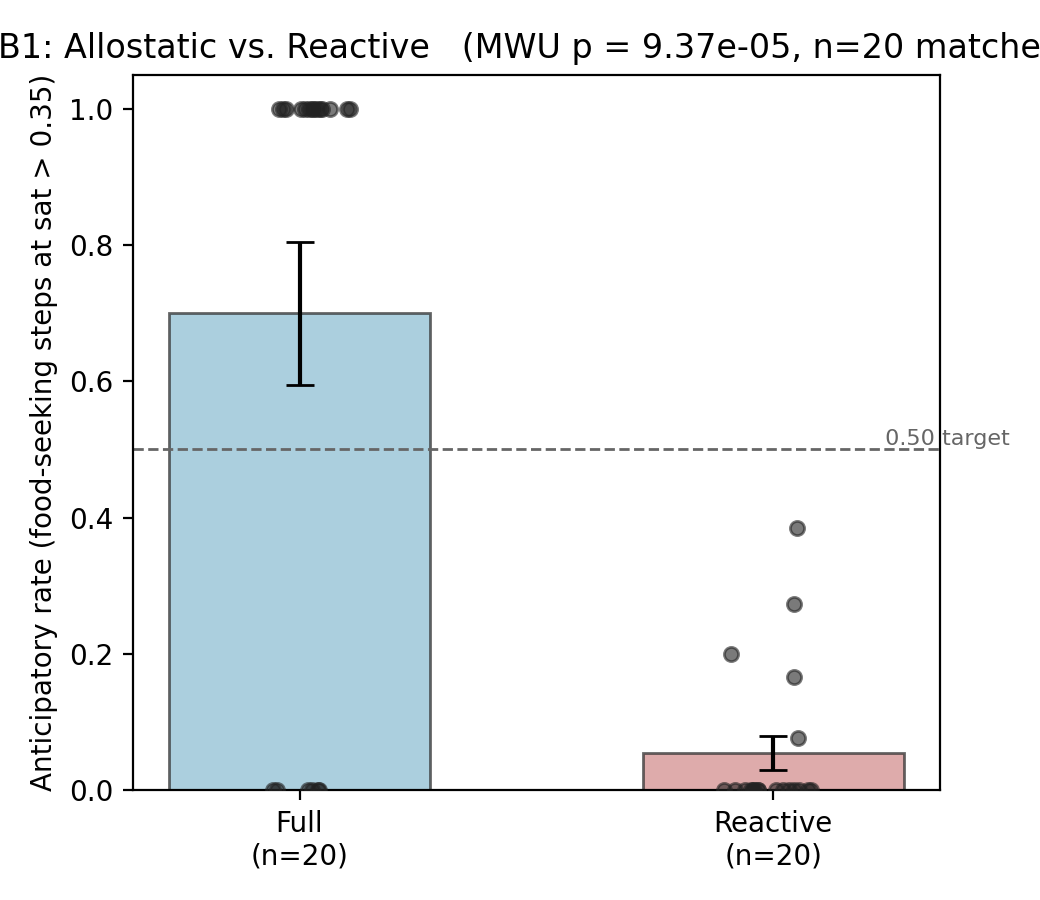
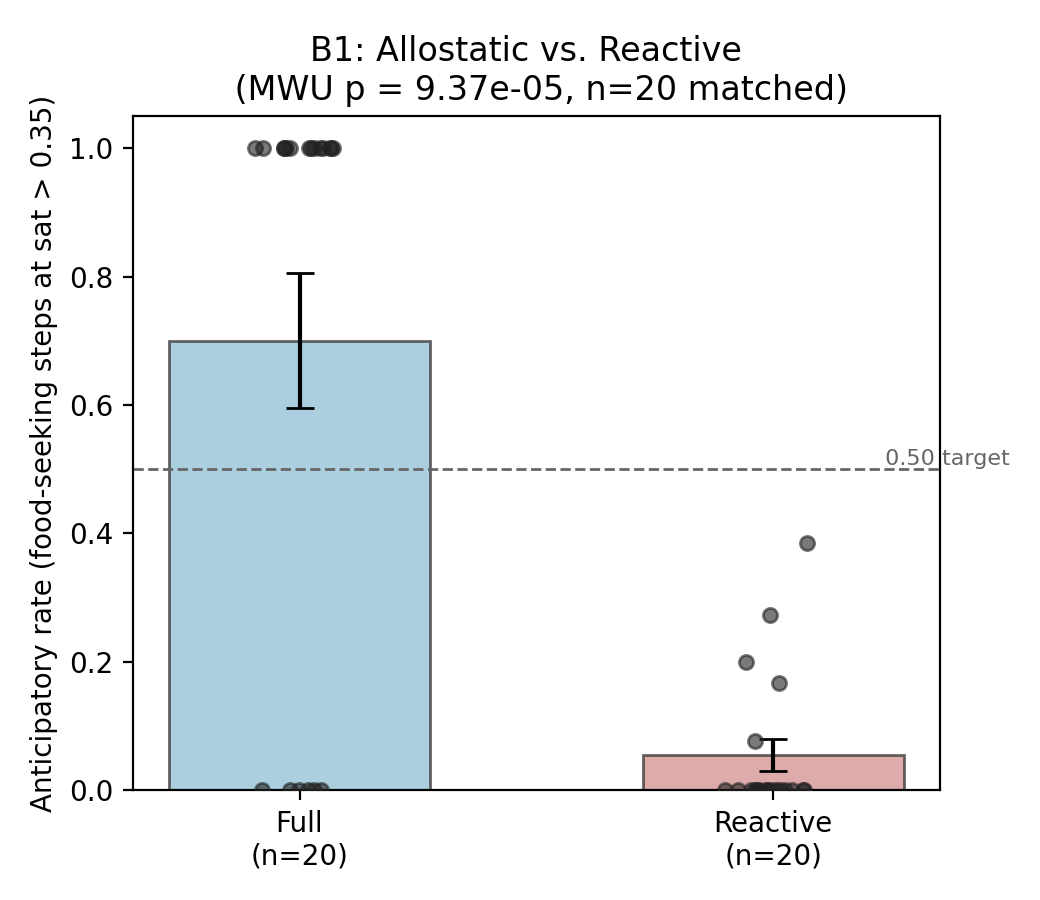
figure updates

diff --git a/results/figures_from_tests.py b/results/figures_from_tests.py
@@ -34,13 +34,17 @@ def _setup_paths(root: str):
 def d1(outdir: str):
     """D1 boxplot + histogram of self-caused vs external PE (Fig 7.x)."""
     from scipy.stats import wilcoxon
+
     from core.layers.predictive.WorldModelGenerator import WorldModelGenerator
-    from tests.functional.test_d_suite import (
-        _run_d1_episode,
-        _N_D1_WARMUP, _N_D1_TEST, _STEPS_D1,
-        _D1_INJECTION_STEP, _D1_INJECTION_VALUE,
-    )
     from tests.functional.test_b_suite import _make_cfg
+    from tests.functional.test_d_suite import (
+        _D1_INJECTION_STEP,
+        _D1_INJECTION_VALUE,
+        _N_D1_TEST,
+        _N_D1_WARMUP,
+        _STEPS_D1,
+        _run_d1_episode,
+    )
 
     # Mirror test_d1_causal_self_attribution exactly.
     sim_cfg, brain_cfg = _make_cfg(
@@ -176,9 +180,15 @@ def _grouped_figure(groups: dict, ylabel: str, title: str, outpath: str,
 def b1(outdir: str):
     """B1 anticipatory foraging rate, full vs reactive (Fig 7.x)."""
     from scipy.stats import mannwhitneyu
+
     from tests.functional.test_b_suite import (
-        _run_n_episodes, _make_cfg, _b1_anticipatory_rate, _N_B1, _STEPS_B1,
+        _N_B1,
+        _STEPS_B1,
+        _b1_anticipatory_rate,
+        _make_cfg,
+        _run_n_episodes,
     )
+
     ov = {"simulation": {"n_food": 4}, "homeostatic": {"saturation_depletion_rate": 0.001}}
     sf, bf = _make_cfg(sim_overrides=ov, ablation_mode="full")
     sr, br = _make_cfg(sim_overrides=ov, ablation_mode="reactive")
@@ -208,9 +218,10 @@ def b1(outdir: str):
     _grouped_figure(
         {"Full": rf, "Reactive": rr},
         "Anticipatory rate (food-seeking steps at sat > 0.35)",
-        f"B1: Allostatic vs. Reactive   (MWU p = {p:.2e}, n={_N_B1} matched)",
+        f"B1: Allostatic vs. Reactive  \n (MWU p = {p:.2e}, n={_N_B1} matched)",
         os.path.join(outdir, "fig_7x_b1_anticipatory.png"),
-        hline=0.50, hline_label="0.50 target",
+        hline=0.50,
+        hline_label="0.50 target",
     )
     print(json.dumps({
         "mean_full": float(rf.mean()), "mean_reactive": float(rr.mean()),
@@ -224,8 +235,9 @@ def b1(outdir: str):
 def coverage(outdir: str):
     """C1 + E2 arena coverage at step 200: full vs no_epistemic vs efe_only."""
     from scipy.stats import mannwhitneyu
-    from tests.functional.test_b_suite import _run_n_episodes, _make_cfg
-    from tests.functional.test_c_suite import _arena_coverage, _N_C1, _STEPS_C1
+
+    from tests.functional.test_b_suite import _make_cfg, _run_n_episodes
+    from tests.functional.test_c_suite import _N_C1, _STEPS_C1, _arena_coverage
 
     def cov200(ep):
         return _arena_coverage([r for r in ep if r["step"] < 200])
@@ -245,11 +257,14 @@ def coverage(outdir: str):
             for i, v in enumerate(arr):
                 fh.write(f"{mode},{i},{v:.6f}\n")
     _grouped_figure(
-        {"Full": out["full"], "No-epistemic": out["no_epistemic"], "EFE-only": out["efe_only"]},
+        {
+            "Full": out["full"],
+            "No-epistemic": out["no_epistemic"],
+            "EFE-only": out["efe_only"],
+        },
         "Arena coverage at step 200 (fraction of cells)",
         "C1 / E2: Epistemic exploration coverage",
         os.path.join(outdir, "fig_7x_c1_e2_coverage.png"),
-        hline=0.25, hline_label="0.25 C1 target",
     )
     _, p_c1 = mannwhitneyu(out["full"], out["no_epistemic"], alternative="greater")
     print(json.dumps({
@@ -278,14 +293,19 @@ def d1_control(outdir: str):
         large drop), NOT self-attribution -> the mechanism claim must be dropped.
     """
     import copy
+
     from scipy.stats import wilcoxon
+
     from core.layers.predictive.WorldModelGenerator import WorldModelGenerator
-    from tests.functional.test_d_suite import (
-        _run_d1_episode,
-        _N_D1_WARMUP, _N_D1_TEST, _STEPS_D1,
-        _D1_INJECTION_STEP, _D1_INJECTION_VALUE,
-    )
     from tests.functional.test_b_suite import _make_cfg
+    from tests.functional.test_d_suite import (
+        _D1_INJECTION_STEP,
+        _D1_INJECTION_VALUE,
+        _N_D1_TEST,
+        _N_D1_WARMUP,
+        _STEPS_D1,
+        _run_d1_episode,
+    )
 
     class NullWorldModel:
         """Predicts no change (current saturation); learns nothing."""
@@ -360,10 +380,16 @@ def d1_control(outdir: str):
 def b3(outdir: str):
     """B3 interoceptive-exteroceptive crosstalk: saturation vs food-attention weight."""
     from scipy.stats import pearsonr
+
     from tests.functional.test_b_suite import (
-        _run_episode, _make_cfg, _partial_pearsonr,
-        _SAT_CONDITIONS, _N_B3_PER_CONDITION, _STEPS_B3,
+        _N_B3_PER_CONDITION,
+        _SAT_CONDITIONS,
+        _STEPS_B3,
+        _make_cfg,
+        _partial_pearsonr,
+        _run_episode,
     )
+
     base_ov = {"simulation": {"n_food": 4, "seed": 42},
                "homeostatic": {"saturation_depletion_rate": 0.0}}
     sim_base, brain = _make_cfg(sim_overrides=base_ov, ablation_mode="full")
@@ -409,11 +435,18 @@ def b3(outdir: str):
 def c3(outdir: str):
     """C3a goal persistence (full vs no-memory) and C3b satiation suppression."""
     from scipy.stats import mannwhitneyu
-    from tests.functional.test_b_suite import _run_episode, _make_cfg
+
+    from tests.functional.test_b_suite import _make_cfg, _run_episode
     from tests.functional.test_c_suite import (
-        _persistence_steps, _FOOD_AHEAD_FAR, _FOOD_AHEAD_NEAR,
-        _FOOD_REMOVAL_STEP_C3A, _SAT_WINDOW,
-        _N_C3A, _STEPS_C3A, _N_C3B, _STEPS_C3B,
+        _FOOD_AHEAD_FAR,
+        _FOOD_AHEAD_NEAR,
+        _FOOD_REMOVAL_STEP_C3A,
+        _N_C3A,
+        _N_C3B,
+        _SAT_WINDOW,
+        _STEPS_C3A,
+        _STEPS_C3B,
+        _persistence_steps,
     )
 
     # ---- C3a: persistence after food removal, full vs no-memory ----
@@ -491,9 +524,13 @@ def c3a_probe(outdir: str):
     enough to flip the argmax to move_forward. Runs the REAL _run_episode (full
     condition) so nothing is reimplemented.
     """
-    from tests.functional.test_b_suite import _run_episode, _make_cfg
-    from tests.functional.test_c_suite import _FOOD_AHEAD_FAR, _FOOD_REMOVAL_STEP_C3A, _STEPS_C3A
     from core.layers.action_selection.FreeEnergyMinimizer import FreeEnergyMinimizer
+    from tests.functional.test_b_suite import _make_cfg, _run_episode
+    from tests.functional.test_c_suite import (
+        _FOOD_AHEAD_FAR,
+        _FOOD_REMOVAL_STEP_C3A,
+        _STEPS_C3A,
+    )
 
     N_EPISODES = 5
     WINDOW = 35  # persistence window used by the test: [removal, removal+35)
